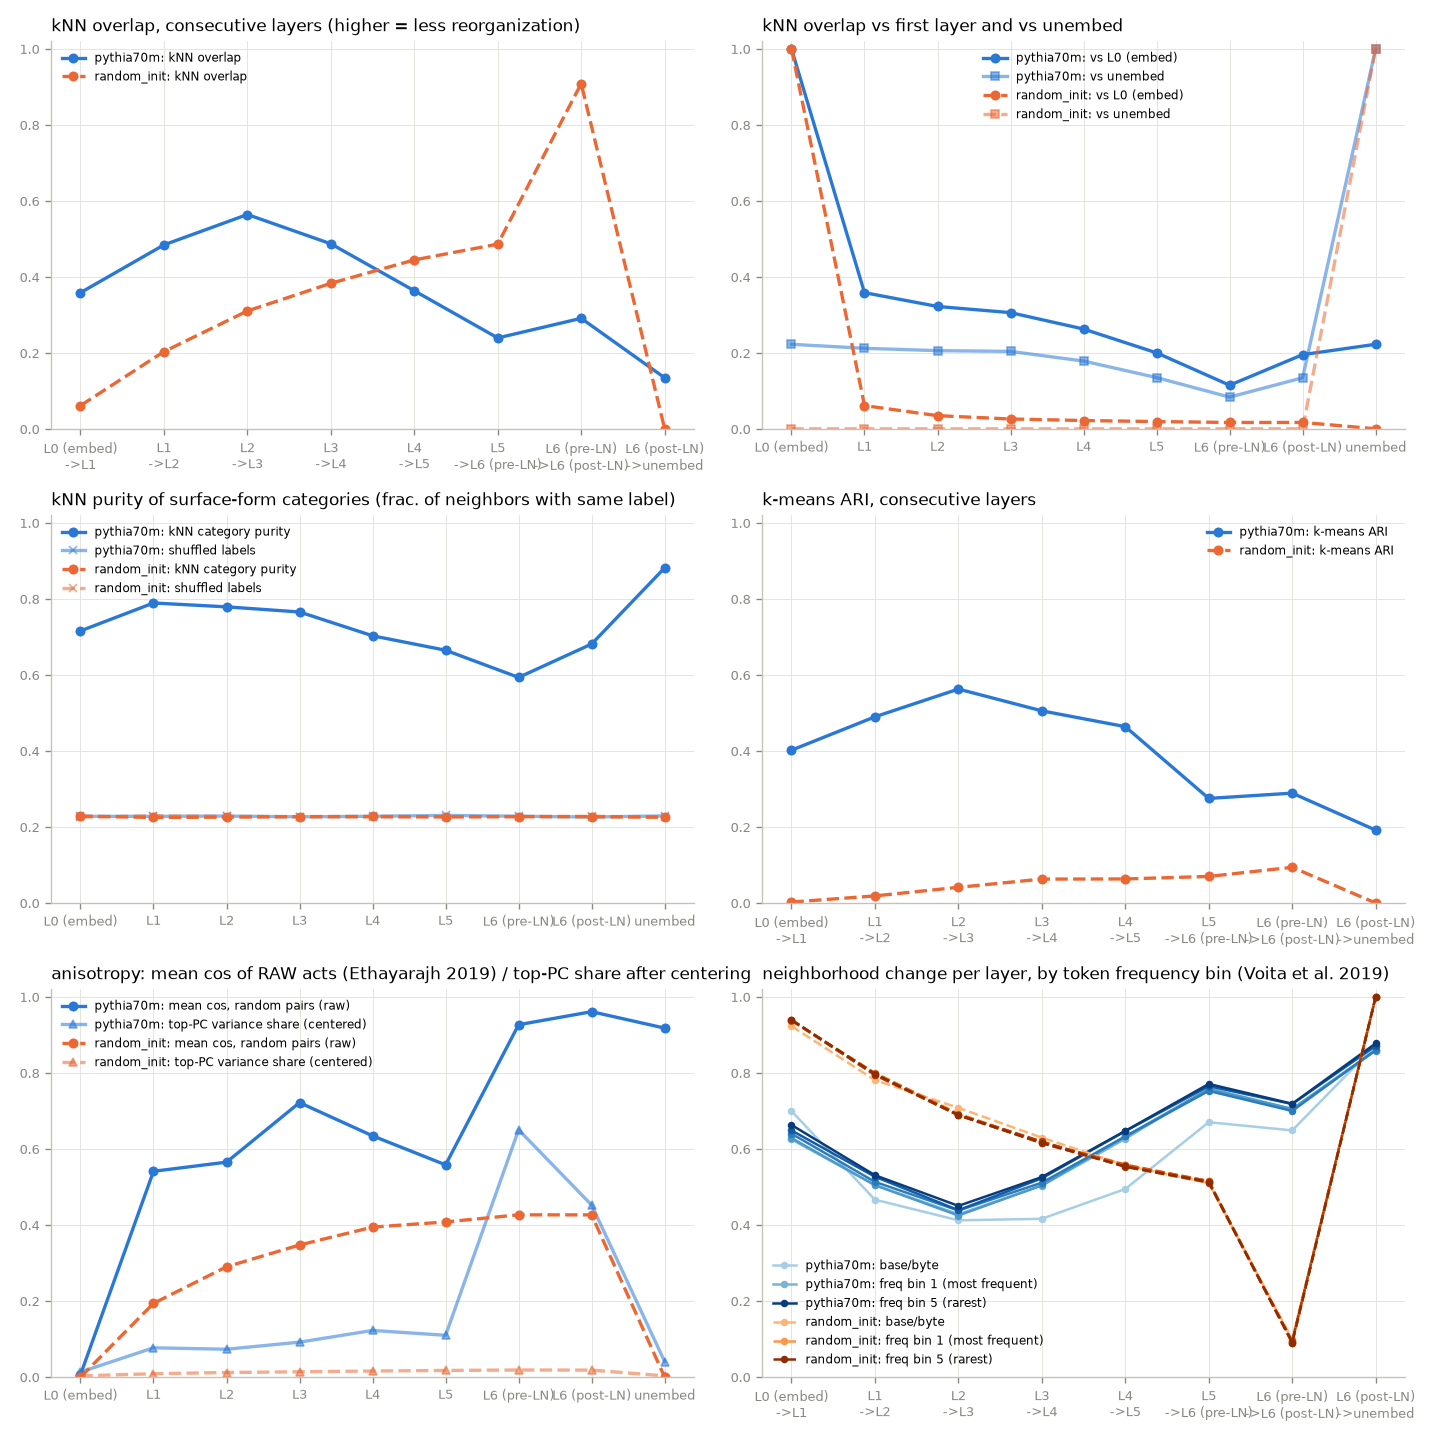
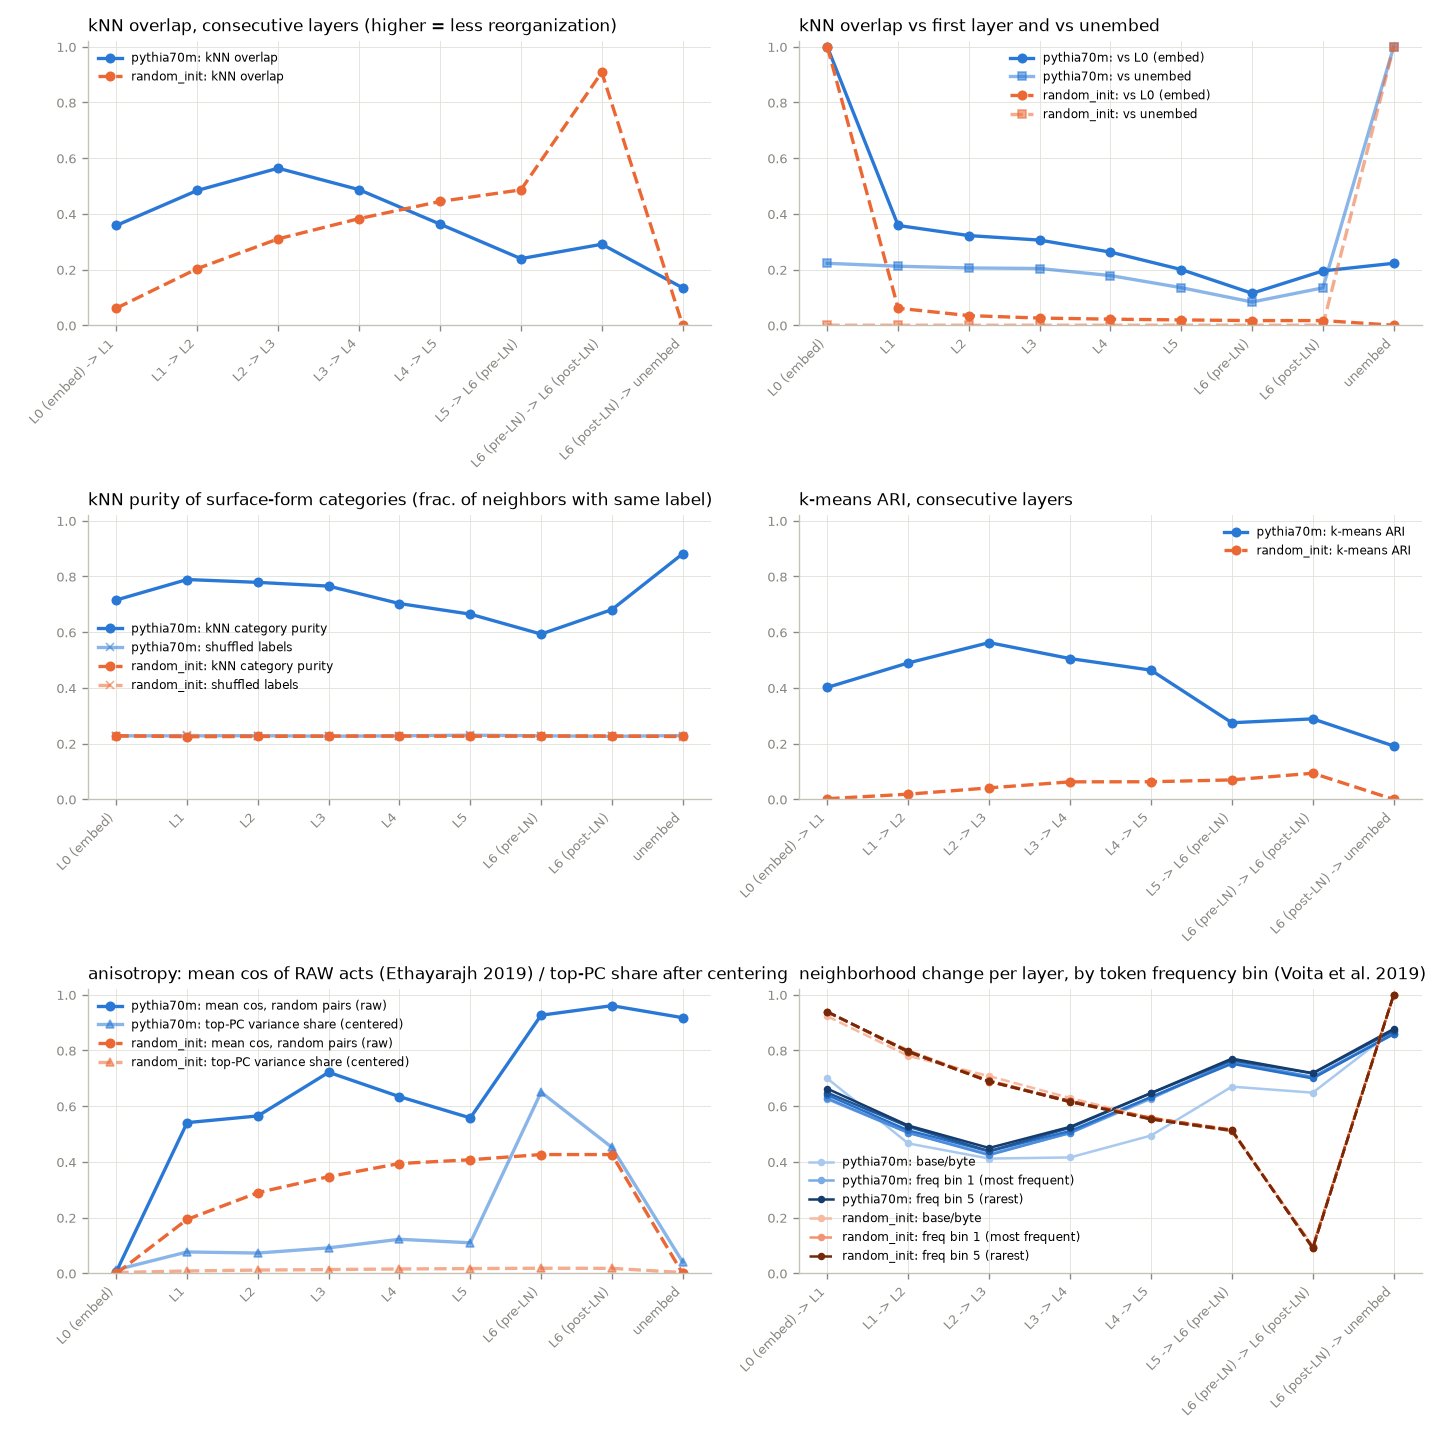
viz: freq-panel ramp in each run's own hue; tilt + one-line ticks from 9 frames
Third run no longer reuses the second run's orange (colour follows the run).
The (pre-LN)/(post-LN) names made Pythia's 9 ticks collide; tilted two-line
transition labels ran into each other, so tilted ones go on one line.

diff --git a/src/token_drift/viz.py b/src/token_drift/viz.py
@@ -6,6 +6,7 @@ point moving between frames means the token moved, not that the projection rotat
 """
 from __future__ import annotations
 
+import colorsys
 from pathlib import Path
 
 import imageio.v3 as iio
@@ -14,6 +15,7 @@ import matplotlib
 matplotlib.use("Agg")  # headless; we only ever write files
 import matplotlib.pyplot as plt  # noqa: E402
 import numpy as np  # noqa: E402
+from matplotlib.colors import to_rgb  # noqa: E402
 
 from token_drift.labels import CATEGORIES  # noqa: E402
 
@@ -174,8 +176,17 @@ def _plot_trajectories(coords, labels, layer_names, trajectories, xlim, ylim, ou
     return p
 
 
-def _transition_labels(names: list[str]) -> list[str]:
-    return [f"{a}\n->{b}" for a, b in zip(names[:-1], names[1:])]
+def _run_ramp(color: str, n: int) -> list[tuple[float, float, float]]:
+    """n shades of one run's hue, light -> dark. Colour follows the run (its identity);
+    lightness carries the bin (a magnitude). Hue and saturation stay fixed."""
+    h, _, s = colorsys.rgb_to_hls(*to_rgb(color))
+    return [colorsys.hls_to_rgb(h, lum, s) for lum in np.linspace(0.80, 0.25, n)]
+
+
+def _transition_labels(names: list[str], *, one_line: bool = False) -> list[str]:
+    # tilted two-line labels run into their neighbours; tilted single lines stay parallel
+    sep = " -> " if one_line else "\n->"
+    return [f"{a}{sep}{b}" for a, b in zip(names[:-1], names[1:])]
 
 
 def plot_metrics(runs: dict[str, dict], out_path: str | Path, *, return_fig: bool = False):
@@ -213,17 +224,18 @@ def plot_metrics(runs: dict[str, dict], out_path: str | Path, *, return_fig: boo
             # one line per frequency bin, single hue light->dark: bin is a magnitude (rank), not an identity
             by_freq = np.asarray(m["knn_change_by_freq"], dtype=float)  # (transitions, bins)
             nb = by_freq.shape[1]
-            ramp = plt.get_cmap("Blues" if r == 0 else "Oranges")(np.linspace(0.35, 0.95, nb))
+            ramp = _run_ramp(color, nb)
             for b in range(nb):
                 lab = "base/byte" if b == 0 else f"freq bin {b}" + (" (most frequent)" if b == 1 else " (rarest)" if b == nb - 1 else "")
                 ax_freq.plot(x_t, by_freq[:, b], ls, color=ramp[b], linewidth=1.5, marker="o", markersize=3.5,
                              label=f"{run}: {lab}" if b in (0, 1, nb - 1) else None)
     first = next(iter(runs.values()))
     names = first["layer_names"]
-    # 8 frames fit upright; GPT-2's 14 don't, so tilt the labels once it gets crowded
-    rot = dict(rotation=45, ha="right") if len(names) > 9 else {}
+    # 8 short frames fit upright; with the "(pre-LN)"/"(post-LN)" frames even Pythia's 9
+    # collide, so tilt from 9 on
+    rot = dict(rotation=45, ha="right") if len(names) > 8 else {}
     for ax in (ax_cons, ax_ari, ax_freq):
-        ax.set_xticks(np.arange(len(names) - 1), _transition_labels(names), fontsize=7, **rot)
+        ax.set_xticks(np.arange(len(names) - 1), _transition_labels(names, one_line=bool(rot)), fontsize=7, **rot)
     for ax in (ax_drift, ax_sil, ax_aniso):
         ax.set_xticks(np.arange(len(names)), names, fontsize=7, **rot)
     ax_cons.set_title("kNN overlap, consecutive layers (higher = less reorganization)", loc="left", fontsize=10)

diff --git a/tests/test_viz.py b/tests/test_viz.py
@@ -110,3 +110,46 @@ def test_anisotropy_panel_gets_top_pc_share_line_when_present(tmp_path, rng):
     fig = plot_metrics({"r": m}, tmp_path / "b.png", return_fig=True)
     assert len(fig.axes[4].get_lines()) == 1
     plt.close(fig)
+
+
+def _hue(c):
+    import colorsys
+
+    from matplotlib.colors import to_rgb
+
+    return colorsys.rgb_to_hls(*to_rgb(c))[0]
+
+
+def test_freq_panel_ramp_follows_each_runs_own_hue(tmp_path, rng):
+    # colour follows the entity: run 3's frequency lines must be run 3's hue, not a
+    # recycled second-run orange
+    import matplotlib.pyplot as plt
+    from matplotlib.colors import to_rgb
+
+    from token_drift.viz import RUN_COLORS
+
+    runs = {f"r{i}": _fake_metrics(rng) for i in range(3)}
+    fig = plot_metrics(runs, tmp_path / "three.png", return_fig=True)
+    lines = fig.axes[5].get_lines()
+    per_run = len(lines) // 3
+    for i in range(3):
+        mine = lines[i * per_run : (i + 1) * per_run]
+        for ln in mine:
+            assert abs(_hue(ln.get_color()) - _hue(RUN_COLORS[i])) < 0.03
+        # light -> dark with bin index (bin is a magnitude)
+        light = [sum(to_rgb(ln.get_color())) for ln in mine]
+        assert light == sorted(light, reverse=True)
+    plt.close(fig)
+
+
+def test_tick_labels_tilt_once_the_pre_ln_frame_makes_them_crowded(tmp_path, rng):
+    import matplotlib.pyplot as plt
+
+    m = _fake_metrics(rng, L=9)  # pythia's frame count since the pre-LN frame
+    m["layer_names"] = ["L0 (embed)"] + [f"L{i}" for i in range(1, 6)] + ["L6 (pre-LN)", "L6 (post-LN)", "unembed"]
+    fig = plot_metrics({"r": m}, tmp_path / "t.png", return_fig=True)
+    for ax in fig.axes:
+        assert all(t.get_rotation() == 45 for t in ax.get_xticklabels())
+    # tilted transition labels go on one line, or neighbours overlap
+    assert all("\n" not in t.get_text() for t in fig.axes[0].get_xticklabels())
+    plt.close(fig)
